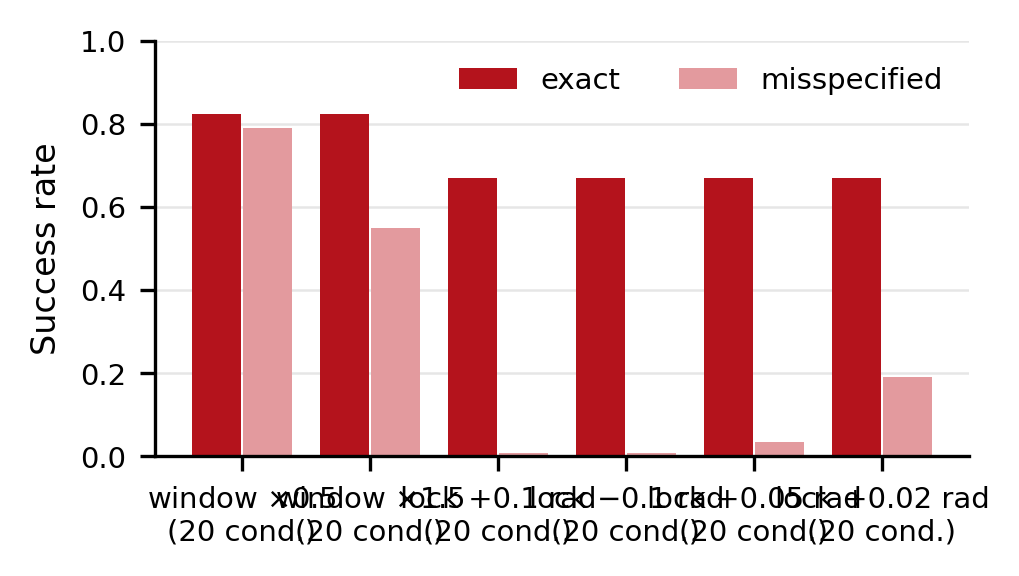
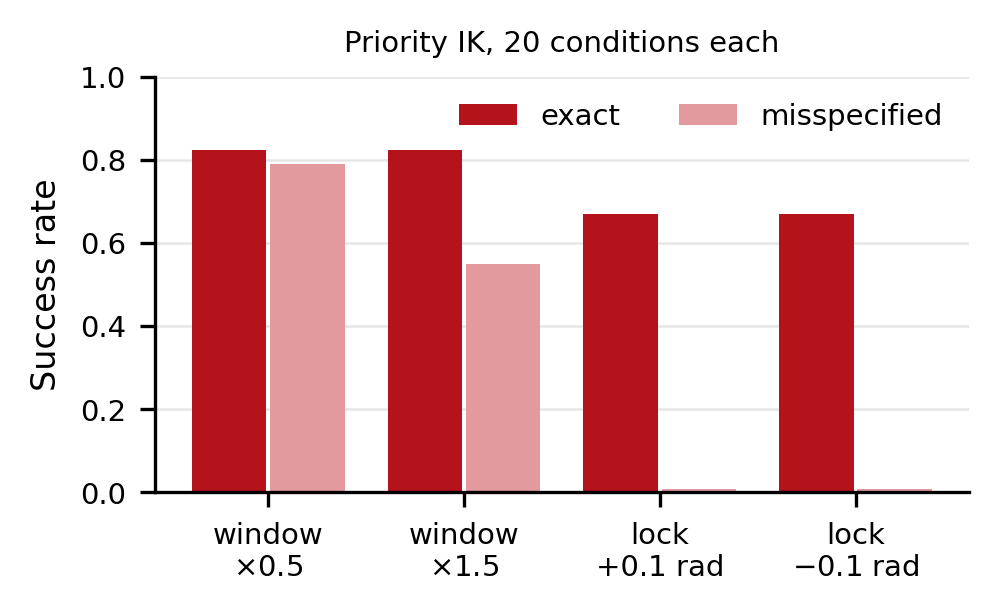
Figures: misspec bars main variants only, lock-angle sensitivity split proximal/distal, table order

diff --git a/scripts_paper/make_paper_figures.py b/scripts_paper/make_paper_figures.py
@@ -38,15 +38,17 @@ SHORT = {"b1": "B1", "random_n": "Rand-N", "select": "Select", "eci": "E-C-I", "
          "pos": "B-IK pos", "pose": "B-IK pose", "prio": "\\textbf{Prio-IK}"}
 COLOR = {"b1": "#9E9C9C", "random_n": "#CFCFCF", "select": "#B8C4D9", "eci": "#163A78", "rg": "#5B7DB8",
          "pos": "#E39A9E", "pose": "#F2C4C6", "prio": "#B4131C", "best": "#5A5A5A"}
-MS = {  # robustness to misspecified fault knowledge (Priority IK)
+MS = {  # robustness to misspecified fault knowledge (Priority IK); table order
     "rs050":  ("window $\\times$0.5",  "range", "moderate", "libero_fault_sweep_range_ms_rs050"),
     "rs150":  ("window $\\times$1.5",  "range", "moderate", "libero_fault_sweep_range_ms_rs150"),
+    "lop001": ("lock +0.01 rad", "locked", "locked", "libero_fault_sweep_locked_ms_lop001"),
+    "lop002": ("lock +0.02 rad", "locked", "locked", "libero_fault_sweep_locked_ms_lop002"),
+    "lop005": ("lock +0.05 rad", "locked", "locked", "libero_fault_sweep_locked_ms_lop005"),
     "lop010": ("lock +0.1 rad", "locked", "locked", "libero_fault_sweep_locked_ms_lop010"),
     "lom010": ("lock $-$0.1 rad", "locked", "locked", "libero_fault_sweep_locked_ms_lom010"),
-    "lop005": ("lock +0.05 rad", "locked", "locked", "libero_fault_sweep_locked_ms_lop005"),
-    "lop002": ("lock +0.02 rad", "locked", "locked", "libero_fault_sweep_locked_ms_lop002"),
-    "lop001": ("lock +0.01 rad", "locked", "locked", "libero_fault_sweep_locked_ms_lop001"),
 }
+FIG_MS = {"rs050": "window\n$\\times$0.5", "rs150": "window\n$\\times$1.5",   # bar figure: main variants only
+          "lop010": "lock\n+0.1 rad", "lom010": "lock\n$-$0.1 rad"}             # (angle sweep -> Fig 6)
 N50_METHODS = ["b1", "ik", "ik_pose", "prio"]
 N50_LABEL = {"b1": "B1", "ik": "B-IK pos", "ik_pose": "B-IK pose", "prio": "Priority IK"}
 
@@ -385,7 +387,8 @@ def main():
         if n == 20:
             rrows.append([lab, level, n, f"{np.mean(ex_s):.2f}", f"{np.mean(ms_s):.2f}",
                           f"{np.mean(ms_s) - np.mean(ex_s):+.2f}", f"{b}:{c} ({fmt_p(mcnemar(b, c))})"])
-            bars.append((f"{lab}\n({n} cond.)", np.mean(ex_s), np.mean(ms_s)))
+            if tag in FIG_MS:
+                bars.append((FIG_MS[tag], np.mean(ex_s), np.mean(ms_s)))
     if rrows:
         write_table(OUT, "tab_misspec",
                     ["Misspecification", "Level", "Cond.", "Exact", "Misspec.", "$\\Delta$", "paired (misspec:exact)"],
@@ -396,33 +399,44 @@ def main():
         ax.bar(x - 0.2, [b[1] for b in bars], 0.38, color=COLOR["prio"], label="exact")
         ax.bar(x + 0.2, [b[2] for b in bars], 0.38, color=COLOR["pos"], label="misspecified")
         ax.set_xticks(x); ax.set_xticklabels([b[0] for b in bars]); ax.set_ylim(0, 1); ax.set_ylabel("Success rate")
-        ax.legend(frameon=False, ncol=2); ax.yaxis.grid(True, color="#E6E6E6", lw=0.6); ax.set_axisbelow(True)
+        ax.legend(frameon=False, ncol=2, loc="upper right"); ax.yaxis.grid(True, color="#E6E6E6", lw=0.6); ax.set_axisbelow(True)
+        ax.set_title("Priority IK, 20 conditions each", fontsize=7)
         savefig(fig, OUT, "fig_misspec"); report.append("tab_misspec, fig_misspec")
 
     # Fig 6: sensitivity to the lock-angle error (Priority IK, joints 1,3,5,6,7, locked)
     J5 = [1, 3, 5, 6, 7]
-    def mean_over(dirname, key):
+    def mean_over(dirname, key, joints=None):
         v = []
         for t in TASKS:
-            for j in J5:
+            for j in (joints or J5):
                 r = load(os.path.join(R, dirname, fname("locked", t, j))) if dirname else data.get(("locked", t, j, key))
                 if r is None or r["score"] is None:
                     return None
                 v.append(r["score"])
         return float(np.mean(v))
-    pts = [(0.0, mean_over(None, "prio"))]
-    for off, tag in [(0.01, "lop001"), (0.02, "lop002"), (0.05, "lop005"), (0.10, "lop010")]:
-        m = mean_over(MS[tag][3], None)
-        if m is not None:
-            pts.append((off, m))
+    GROUPS = [("all (J1,3,5,6,7)", J5, "-", 1.6, 3.5), ("proximal (J1,3)", [1, 3], "--", 1.0, 2.5),
+              ("distal (J5,6,7)", [5, 6, 7], ":", 1.0, 2.5)]
+    curves = {}
+    for g, js, _, _, _ in GROUPS:
+        pts_g = [(0.0, mean_over(None, "prio", js))]
+        for off, tag in [(0.01, "lop001"), (0.02, "lop002"), (0.05, "lop005"), (0.10, "lop010")]:
+            m = mean_over(MS[tag][3], None, js)
+            if m is not None:
+                pts_g.append((off, m))
+        curves[g] = pts_g
+    pts = curves[GROUPS[0][0]]
     b1 = mean_over(None, "b1")
     if len(pts) >= 3 and pts[0][1] is not None and b1 is not None:
         fig, ax = plt.subplots(figsize=(3.5, 1.9))
-        ax.plot([p[0] for p in pts], [p[1] for p in pts], marker="o", ms=3.5, lw=1.6, color=COLOR["prio"], label="Priority IK")
+        for g, _, ls, lw, ms in GROUPS:
+            c = curves[g]
+            ax.plot([p[0] for p in c], [p[1] for p in c], marker="o", ms=ms, lw=lw, ls=ls, color=COLOR["prio"],
+                    alpha=1.0 if lw > 1.2 else 0.75, label=f"Priority IK, {g}")
+        ax.set_xticks([0, 0.01, 0.02, 0.05, 0.10]); ax.set_xticklabels(["0", ".01", ".02", ".05", ".10"])
         ax.axhline(b1, ls="--", lw=0.9, color=COLOR["b1"], label="B1 (no intervention)")
         ax.set_xlabel("error in the assumed lock angle [rad]"); ax.set_ylabel("Success rate (locked)")
         ax.set_ylim(0, 1); ax.yaxis.grid(True, color="#E6E6E6", lw=0.6); ax.set_axisbelow(True)
-        ax.legend(frameon=False, fontsize=6)
+        ax.legend(frameon=False, fontsize=5.5, loc="upper right")
         savefig(fig, OUT, "fig_lock_angle_sensitivity"); report.append("fig_lock_angle_sensitivity")
     else:
         print("  lock-angle sensitivity: need >=3 points -> skipped")

diff --git a/paper/tables/tab_misspec.tex b/paper/tables/tab_misspec.tex
@@ -9,10 +9,10 @@ Misspecification & Level & Cond. & Exact & Misspec. & $\Delta$ & paired (misspec
 \midrule
 window $\times$0.5 & moderate & 20 & 0.82 & 0.79 & -0.03 & 27:40 (0.14) \\
 window $\times$1.5 & moderate & 20 & 0.82 & 0.55 & -0.27 & 23:132 ($8.8\times10^{-20}$) \\
+lock +0.02 rad & locked & 20 & 0.67 & 0.19 & -0.48 & 10:202 ($1.3\times10^{-47}$) \\
+lock +0.05 rad & locked & 20 & 0.67 & 0.03 & -0.64 & 6:260 ($8.0\times10^{-69}$) \\
 lock +0.1 rad & locked & 20 & 0.67 & 0.01 & -0.66 & 0:265 ($3.4\times10^{-80}$) \\
 lock $-$0.1 rad & locked & 20 & 0.67 & 0.01 & -0.66 & 0:265 ($3.4\times10^{-80}$) \\
-lock +0.05 rad & locked & 20 & 0.67 & 0.03 & -0.64 & 6:260 ($8.0\times10^{-69}$) \\
-lock +0.02 rad & locked & 20 & 0.67 & 0.19 & -0.48 & 10:202 ($1.3\times10^{-47}$) \\
 \bottomrule
 \end{tabular}
 \end{table}
